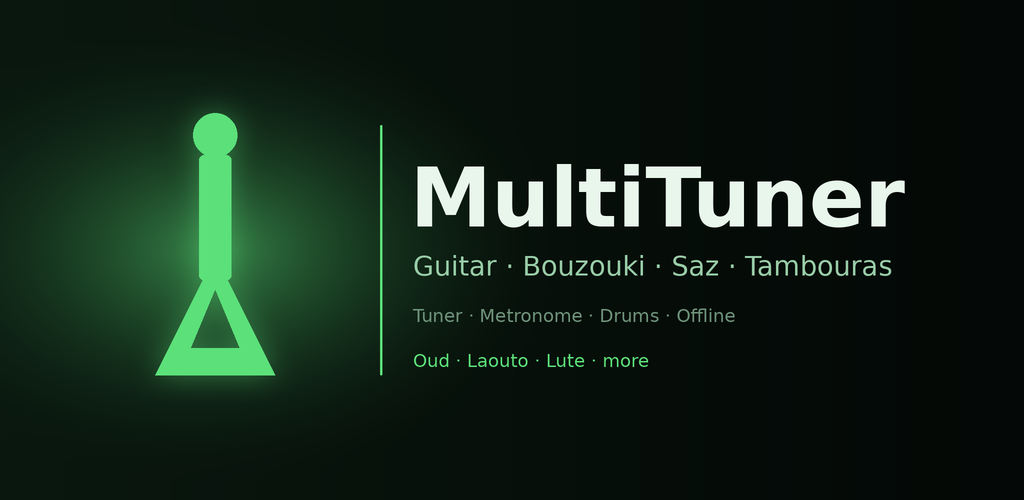
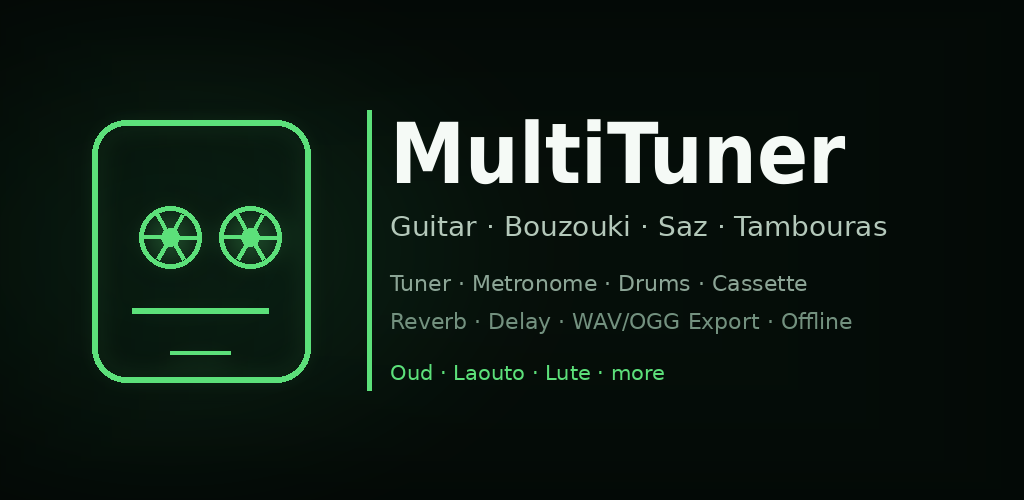
docs: add cassette FX and export screenshots

Changed region(s): [[0.0, 0.18, 0.9062, 0.78]]

diff --git a/README.md b/README.md
@@ -38,6 +38,17 @@ From left to right: the tuner, metronome, drum machine, four-track cassette
 recorder and 10-course Renaissance lute. Bottom: in-tune feedback, the tuning
 picker and the tablet navigation rail.
 
+Cassette recorder details:
+
+<p align="center">
+  <img src="docs/screenshots/cassette-decks.png" width="200" alt="Deck sends and record/playback meters" />
+  <img src="docs/screenshots/cassette-fx.png" width="200" alt="Master reverb and delay sends and returns" />
+  <img src="docs/screenshots/cassette-export.png" width="200" alt="Export cassette mix as WAV or OGG" />
+</p>
+
+From left to right: per-deck REV/DLY sends with recording and playback meters,
+master reverb/delay returns, and the WAV/OGG export dialog.
+
 ## Features
 
 - **Native pitch detection** - C++ YIN detector running through NDK/JNI, with a
